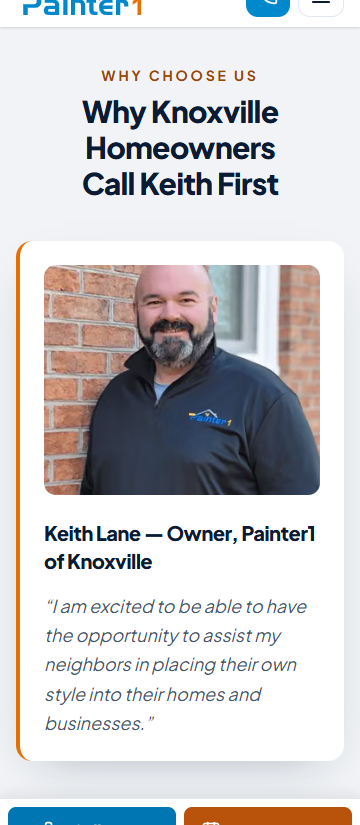
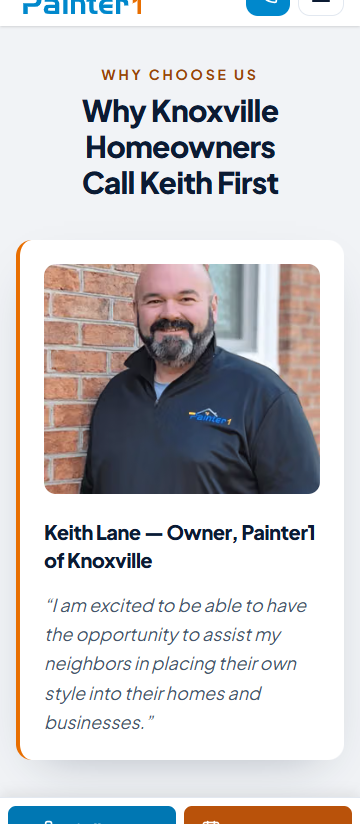
CMS guide: publish and send a preview to the owner; indexing at launch
- New section: fill the sections, Publish, wait a few seconds (about 4,
  webhook), link format painter1.vercel.app/<slug>, where the slug is,
  painter1.com unchanged until launch
- "Publish ... within about a minute" corrected to a few seconds
- Go-live plan: noindex is by host (nothing to switch), LIVE_LOCATIONS
  decides indexable locations; launch-day header checks
- Owner card screenshots retaken on the current build (360, 1440)

diff --git a/docs/cms-guide.md b/docs/cms-guide.md
@@ -30,14 +30,14 @@ The **Location details** document has these tabs: Basics · Owner & team · Home
   - **Red** items are required: the page breaks or misleads without them.
   - **Amber** items are recommended: the page works, but looks unfinished.
   - Click an item to jump to its field.
-- **Publish** puts your changes on the site within about a minute. Fields marked with an error block publishing; warnings don't.
+- **Publish** puts your changes on the site within a few seconds (see [Publish and send a preview to the owner](#publish-and-send-a-preview-to-the-owner)). Fields marked with an error block publishing; warnings don't.
 - **Open page** (in the document's action menu, or the **Pages** tab) opens the published pages this document feeds, on the same site you're signed into. Unpublished changes aren't there yet.
 
 ## Adding a location
 
 **The locations on Rick's list already exist** (36 created from the list on Oct 20, plus Knoxville), with the right name, URL slug and tier (Growth = every page, Maintenance = homepage, free estimate and privacy only). Open the location instead of creating a new one, and go on from step 2. Their lead recipients are empty: the developer adds them, so no estimate email is sent for a location until then.
 
-**Previewing:** every location can be checked at `https://painter1.vercel.app/<slug>` (e.g. `/upstate`) as soon as it's published. That copy is never indexed by Google, and a location only appears on painter1.com, in the sitemap and in search results once the developer adds it to the live list on its launch day.
+**Previewing:** every location can be checked at `https://painter1.vercel.app/<slug>` (e.g. `/upstate`) as soon as it's published. That copy is never indexed by Google, and a location only appears on painter1.com, in the sitemap and in search results once the developer adds it to the live list on its launch day. To send it to the owner, see [Publish and send a preview to the owner](#publish-and-send-a-preview-to-the-owner).
 
 1. **Create** (only for a location that isn't on the list yet): Locations → **All locations** (or any state) → create **New location**. It starts with:
    - the standard service titles;
@@ -50,6 +50,20 @@ The **Location details** document has these tabs: Basics · Owner & team · Home
 3. **Lead recipients:** send the addresses that should receive estimate requests (including the location's Client Tether parse address) to the developer, who adds them (location folder → **Lead recipients**; read-only for everyone else). Until there's one, estimate requests are saved but nobody is emailed.
 4. **Work down the Launch checklist** until nothing is red, then **Publish**.
 5. **After publishing:** the URL slug is **locked**. Changing a live URL breaks every link to it, so ask an administrator, who will add redirects.
+
+## Publish and send a preview to the owner
+
+When a location is filled in, publish it and send the owner a link so they can check their pages before launch.
+
+1. **Fill the sections:** open the location (Locations → the state → the location → **Location details**) and work through the tabs (Basics · Owner & team · Homepage · Services · Photos · Reviews · Leads & consent · Warranty · SEO). The **Launch checklist** tab shows what's missing: no red items left, and as few amber ones as you can.
+2. **Click Publish** (bottom right). Until you do, your changes are only a draft and nobody else sees them, the preview link included.
+3. **Wait a few seconds** (about 4 in our test), then open or refresh the page. If the old content still shows after a minute, tell the developer: the instant update isn't working, and pages then only catch up within an hour.
+4. **Copy the link:** the location folder → **Live pages** lists every published page of this location, opened on painter1.vercel.app (when you're signed into the Studio at `https://painter1.vercel.app/studio`). Open one and copy the address from the browser.
+5. **Send it to the owner.** The link format is **`https://painter1.vercel.app/<slug>`**, e.g. `https://painter1.vercel.app/upstate`. Inner pages add their path: `/<slug>/about-us`, `/<slug>/interior-painting`, `/<slug>/exterior-painting`, `/<slug>/cabinet-painting`, `/<slug>/our-work`, `/<slug>/warranty`, `/<slug>/free-estimate`.
+
+**Where to find the slug:** the location's **Basics** tab → **URL slug** (e.g. `upstate`). It's the part after `painter1.com/` on the location's current website. **Maintenance** locations only have the homepage, `/<slug>/free-estimate` and `/<slug>/privacy-policy`; their other links show "page not found".
+
+**painter1.com doesn't change until launch.** Publishing only updates the preview copy on painter1.vercel.app, which Google never indexes. The owner's current page on painter1.com stays exactly as it is until the developer moves that location over on its launch day. The free-estimate form on the preview does work, though: a request sent there is saved as a lead in the Studio, so ask the owner to send one only as a test.
 
 ## Consent checkboxes
 

diff --git a/docs/go-live-plan.md b/docs/go-live-plan.md
@@ -25,6 +25,7 @@ For Rick, his WordPress host and us. Written Oct 19, 2026. Nothing here is built
 - **Vercel:**
   - set `NEXT_PUBLIC_SITE_URL=https://www.painter1.com`
   - confirm the team is on a plan that allows commercial use (Pro; Hobby is non-commercial only), and its bandwidth and request allowance
+- **Indexing switches on by itself, by host** (`lib/indexing.ts`): requests to `www.painter1.com` / `painter1.com` get no `X-Robots-Tag` and a crawlable robots.txt with the sitemap, while painter1.vercel.app and every preview keep `X-Robots-Tag: noindex, nofollow` and `Disallow: /`, so nothing to toggle at launch. What decides which locations are indexable and in the sitemap is `LIVE_LOCATIONS` (`lib/legacy-redirects.ts`): add a slug there in the launch PR for that location. To index another host (e.g. a staging domain, not recommended), add it to `PRODUCTION_HOSTS` and `PRODUCTION_HOST_PATTERN`.
 - **WordPress keeps its Knoxville pages, unchanged, until the switch is stable** (at least two weeks). They are the rollback. Only afterwards: drop them from WordPress's sitemap and set them to noindex.
 
 ## Option (a): Vercel in front, WordPress behind an origin hostname
@@ -169,7 +170,7 @@ Its risk, WordPress behaving differently behind a proxy, is found in a rehearsal
     - WP admin login
     - one Fluent Form on another location
     - the Knoxville estimate form, and its Client Tether test (`docs/email-setup.md` §8)
-    - `/robots.txt`, `/sitemap.xml`
+    - `/robots.txt` (allows crawling, lists the sitemap), `/sitemap.xml` (only live locations, `www.painter1.com` URLs), and `curl -sI https://www.painter1.com/knoxville` has **no** `X-Robots-Tag`, while `curl -sI https://painter1.vercel.app/knoxville` still has `noindex, nofollow`
 11. Point the Sanity webhook at `https://www.painter1.com/api/revalidate`, publish a small change, and see it live.
 12. Watch for 2 hours: Vercel → Logs and Observability (External Origins: WordPress error rates), and WordPress's own error log.
 
